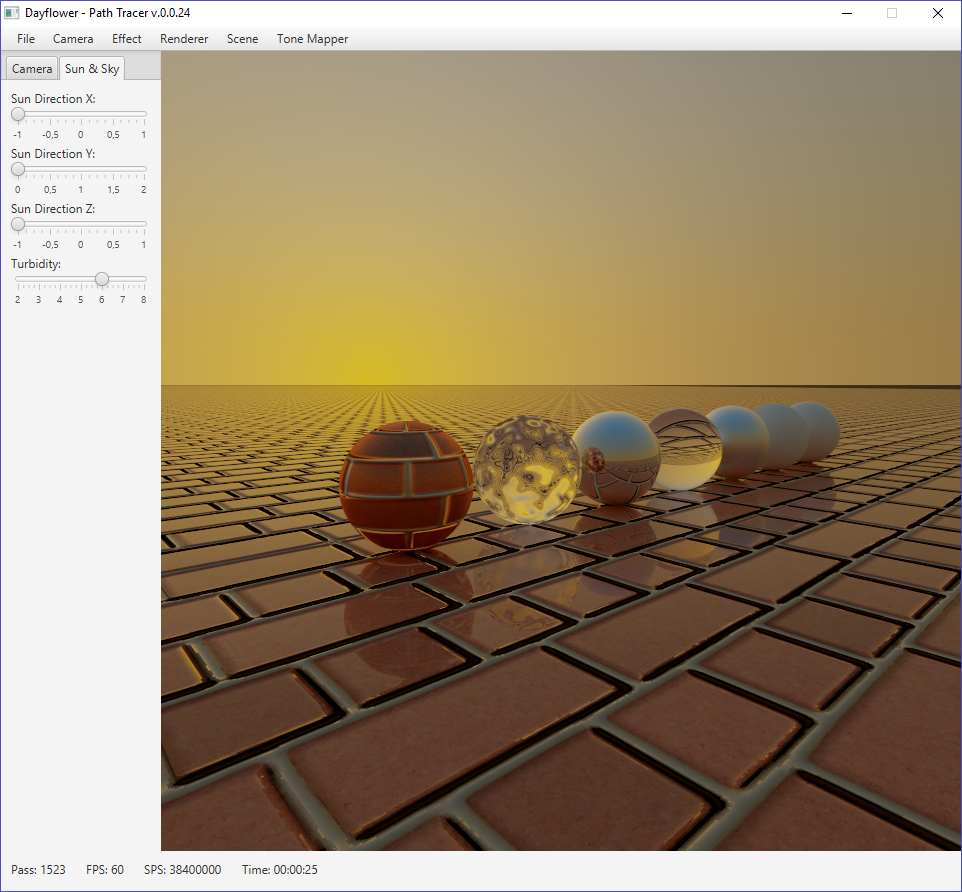
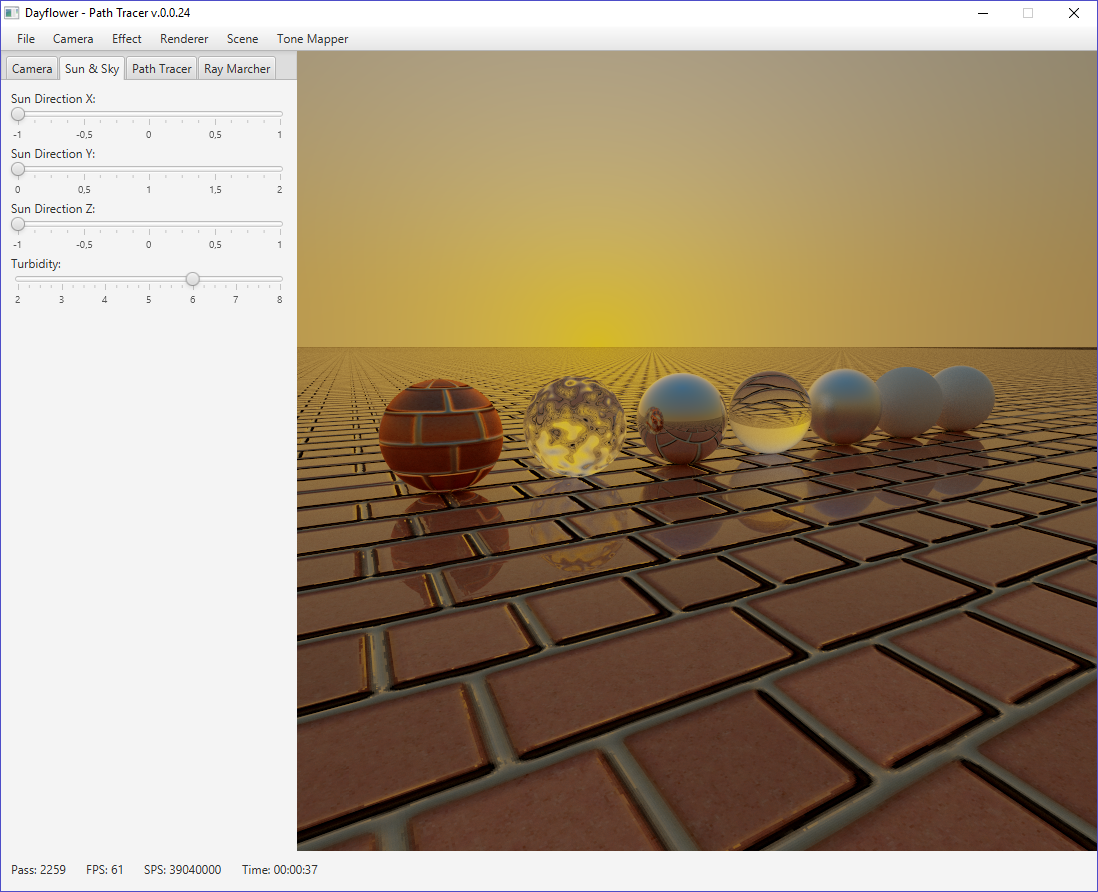
Add more Tabs to the TabPane with new settings.

diff --git a/src/main/java/org/dayflower/pathtracer/main/TestApplication.java b/src/main/java/org/dayflower/pathtracer/main/TestApplication.java
@@ -209,17 +209,15 @@ public final class TestApplication extends AbstractApplication {
 		final Label labelFieldOfView = new Label("Field of View:");
 		final Label labelApertureRadius = new Label("Aperture Radius:");
 		final Label labelFocalDistance = new Label("Focal Distance:");
-		final Label labelMaximumRayDepth = new Label("Maximum Ray Depth:");
 		
 		final Slider sliderFieldOfView = JavaFX.newSlider(40.0D, 100.0D, this.camera.getFieldOfViewX(), 10.0D, 10.0D, true, true, false, this::doOnSliderFieldOfView);
 		final Slider sliderApertureRadius = JavaFX.newSlider(0.0D, 25.0D, this.camera.getApertureRadius(), 1.0D, 5.0D, true, true, false, this::doOnSliderApertureRadius);
 		final Slider sliderFocalDistance = JavaFX.newSlider(0.0D, 100.0D, this.camera.getFocalDistance(), 1.0D, 20.0D, true, true, false, this::doOnSliderFocalDistance);
-		final Slider sliderMaximumRayDepth = JavaFX.newSlider(0.0D, 20.0D, this.abstractRendererKernel.getDepthMaximum(), 1.0D, 5.0D, true, true, true, this::doOnSliderMaximumRayDepth);
 		
 		final
 		VBox vBoxCamera = new VBox();
 		vBoxCamera.setPadding(new Insets(10.0D, 10.0D, 10.0D, 10.0D));
-		vBoxCamera.getChildren().addAll(labelFieldOfView, sliderFieldOfView, labelApertureRadius, sliderApertureRadius, labelFocalDistance, sliderFocalDistance, labelMaximumRayDepth, sliderMaximumRayDepth);
+		vBoxCamera.getChildren().addAll(labelFieldOfView, sliderFieldOfView, labelApertureRadius, sliderApertureRadius, labelFocalDistance, sliderFocalDistance);
 		
 		final
 		Tab tabCamera = new Tab();
@@ -252,6 +250,48 @@ public final class TestApplication extends AbstractApplication {
 		tabSunAndSky.setText("Sun & Sky");
 		
 		tabPane.getTabs().add(tabSunAndSky);
+		
+//		Create the Tab with the settings for the Path Tracer:
+		final Label labelMaximumRayDepth = new Label("Maximum Ray Depth:");
+		
+		final Slider sliderMaximumRayDepth = JavaFX.newSlider(0.0D, 20.0D, this.abstractRendererKernel.getDepthMaximum(), 1.0D, 5.0D, true, true, true, this::doOnSliderMaximumRayDepth);
+		
+		final
+		VBox vBoxPathTracer = new VBox();
+		vBoxPathTracer.setPadding(new Insets(10.0D, 10.0D, 10.0D, 10.0D));
+		vBoxPathTracer.getChildren().addAll(labelMaximumRayDepth, sliderMaximumRayDepth);
+		
+		final
+		Tab tabPathTracer = new Tab();
+		tabPathTracer.setClosable(false);
+		tabPathTracer.setContent(vBoxPathTracer);
+		tabPathTracer.setText("Path Tracer");
+		
+		tabPane.getTabs().add(tabPathTracer);
+		
+//		Create the Tab with the settings for the Ray Marcher:
+		final Label labelAmplitude = new Label("Amplitude:");
+		final Label labelFrequency = new Label("Frequency:");
+		final Label labelGain = new Label("Gain:");
+		final Label labelLacunarity = new Label("Lacunarity:");
+		
+		final Slider sliderAmplitude = JavaFX.newSlider(0.0D, 10.0D, this.abstractRendererKernel.getAmplitude(), 1.0D, 5.0D, true, true, false, this::doOnSliderAmplitude);
+		final Slider sliderFrequency = JavaFX.newSlider(0.0D, 10.0D, this.abstractRendererKernel.getFrequency(), 1.0D, 5.0D, true, true, false, this::doOnSliderFrequency);
+		final Slider sliderGain = JavaFX.newSlider(0.0D, 10.0D, this.abstractRendererKernel.getGain(), 1.0D, 5.0D, true, true, false, this::doOnSliderGain);
+		final Slider sliderLacunarity = JavaFX.newSlider(0.0D, 10.0D, this.abstractRendererKernel.getLacunarity(), 1.0D, 5.0D, true, true, false, this::doOnSliderLacunarity);
+		
+		final
+		VBox vBoxRayMarcher = new VBox();
+		vBoxRayMarcher.setPadding(new Insets(10.0D, 10.0D, 10.0D, 10.0D));
+		vBoxRayMarcher.getChildren().addAll(labelAmplitude, sliderAmplitude, labelFrequency, sliderFrequency, labelGain, sliderGain, labelLacunarity, sliderLacunarity);
+		
+		final
+		Tab tabRayMarcher = new Tab();
+		tabRayMarcher.setClosable(false);
+		tabRayMarcher.setContent(vBoxRayMarcher);
+		tabRayMarcher.setText("Ray Marcher");
+		
+		tabPane.getTabs().add(tabRayMarcher);
 		
 //		Select the default Tab:
 		tabPane.getSelectionModel().select(tabCamera);
@@ -399,39 +439,8 @@ public final class TestApplication extends AbstractApplication {
 				this.hasRequestedToExit.set(true);
 			}
 			
-			if(isKeyPressed(KeyCode.J)) {
-				abstractRendererKernel.setAmplitude(0.5F);
-				abstractRendererKernel.setFrequency(0.2F);
-				abstractRendererKernel.setLacunarity(10.0F);
-				abstractRendererKernel.setGain(1.0F / abstractRendererKernel.getLacunarity());
-			}
-			
 			if(isKeyPressed(KeyCode.LEFT)) {
 				camera.changeYaw(0.02F);
-			}
-			
-			if(isKeyPressed(KeyCode.NUMPAD4, false)) {
-				abstractRendererKernel.setAmplitude(abstractRendererKernel.getAmplitude() + 0.005F);
-			}
-			
-			if(isKeyPressed(KeyCode.NUMPAD5, true)) {
-				abstractRendererKernel.setFrequency(abstractRendererKernel.getFrequency() + 0.005F);
-			}
-			
-			if(isKeyPressed(KeyCode.NUMPAD6, false)) {
-				abstractRendererKernel.setGain(abstractRendererKernel.getGain() + 0.005F);
-			}
-			
-			if(isKeyPressed(KeyCode.NUMPAD7, false)) {
-				abstractRendererKernel.setAmplitude(abstractRendererKernel.getAmplitude() - 0.005F);
-			}
-			
-			if(isKeyPressed(KeyCode.NUMPAD8, true)) {
-				abstractRendererKernel.setFrequency(abstractRendererKernel.getFrequency() - 0.005F);
-			}
-			
-			if(isKeyPressed(KeyCode.NUMPAD9, false)) {
-				abstractRendererKernel.setGain(abstractRendererKernel.getGain() - 0.005F);
 			}
 			
 			if(isKeyPressed(KeyCode.R)) {
@@ -554,6 +563,11 @@ public final class TestApplication extends AbstractApplication {
 	////////////////////////////////////////////////////////////////////////////////////////////////////
 	
 	@SuppressWarnings("unused")
+	private void doOnSliderAmplitude(final ObservableValue<? extends Number> observableValue, final Number oldValue, final Number newValue) {
+		this.abstractRendererKernel.setAmplitude(newValue.floatValue());
+	}
+	
+	@SuppressWarnings("unused")
 	private void doOnSliderApertureRadius(final ObservableValue<? extends Number> observableValue, final Number oldValue, final Number newValue) {
 		this.camera.setApertureRadius(newValue.floatValue());
 	}
@@ -566,6 +580,21 @@ public final class TestApplication extends AbstractApplication {
 	@SuppressWarnings("unused")
 	private void doOnSliderFocalDistance(final ObservableValue<? extends Number> observableValue, final Number oldValue, final Number newValue) {
 		this.camera.setFocalDistance(newValue.floatValue());
+	}
+	
+	@SuppressWarnings("unused")
+	private void doOnSliderFrequency(final ObservableValue<? extends Number> observableValue, final Number oldValue, final Number newValue) {
+		this.abstractRendererKernel.setFrequency(newValue.floatValue());
+	}
+	
+	@SuppressWarnings("unused")
+	private void doOnSliderGain(final ObservableValue<? extends Number> observableValue, final Number oldValue, final Number newValue) {
+		this.abstractRendererKernel.setGain(newValue.floatValue());
+	}
+	
+	@SuppressWarnings("unused")
+	private void doOnSliderLacunarity(final ObservableValue<? extends Number> observableValue, final Number oldValue, final Number newValue) {
+		this.abstractRendererKernel.setLacunarity(newValue.floatValue());
 	}
 	
 	@SuppressWarnings("unused")

diff --git a/src/main/java/org/dayflower/pathtracer/application/AbstractApplication.java b/src/main/java/org/dayflower/pathtracer/application/AbstractApplication.java
@@ -48,7 +48,6 @@ import javafx.scene.input.KeyEvent;
 import javafx.scene.input.MouseEvent;
 import javafx.scene.layout.BorderPane;
 import javafx.scene.layout.HBox;
-import javafx.scene.layout.VBox;
 import javafx.stage.Stage;
 
 import org.dayflower.pathtracer.util.FPSCounter;

diff --git a/README.md b/README.md
@@ -77,18 +77,11 @@ Supported Keyboard Controls
 * ``D`` - Strafe Right
 * ``E`` - Increase Altitude
 * ``R`` - Decrease Altitude
-* ``J`` - Reset Amplitude, Frequency, Lacunarity and Gain for Ray Marching
 * ``DOWN ARROW`` - Increase Pitch
 * ``UP ARROW`` - Decrease Pitch
 * ``LEFT ARROW`` - Increase Yaw
 * ``RIGHT ARROW`` - Decrease Yaw
 * ``MOVE MOUSE`` - Free Movement
-* ``NUMPAD 4`` - Increase Amplitude for Ray Marching
-* ``NUMPAD 5`` - Increase Frequency for Ray Marching
-* ``NUMPAD 6`` - Increase Gain for Ray Marching
-* ``NUMPAD 7`` - Decrease Amplitude for Ray Marching
-* ``NUMPAD 8`` - Decrease Frequency for Ray Marching
-* ``NUMPAD 9`` - Decrease Gain for Ray Marching
 
 Supported Menu Controls
 -----------------------
@@ -153,4 +146,4 @@ Dependencies
 
 Note
 ----
-This library hasn't been released yet. So, even though it says it's version 1.0.0 in all Java source code files, it shouldn't be treated as such. When this library reaches version 1.0.0, it will be tagged and available on the "releases" page.
+This program hasn't been released yet. So, even though it says it's version 1.0.0 in all Java source code files, it shouldn't be treated as such. When this program reaches version 1.0.0, it will be tagged and available on the "releases" page.
